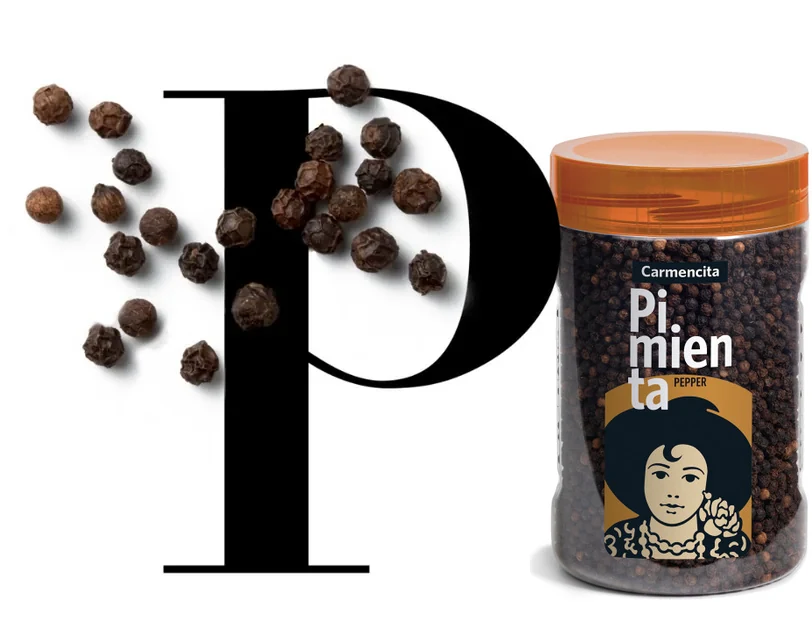
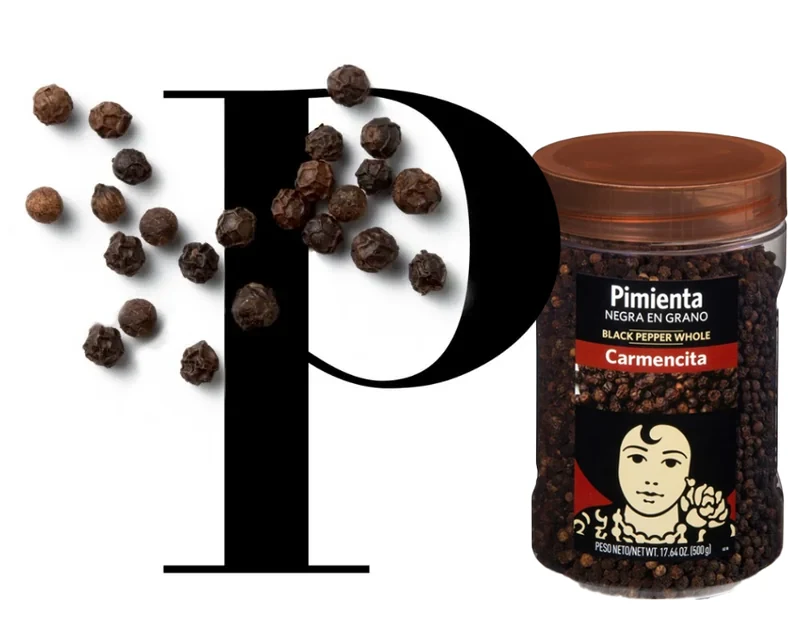
Carmencita: botes PET de pimienta blanca molida, comino molido y en grano, clavo y pimienta negra en grano junto a la especia
Claude-Session: https://claude.ai/code/session_01TfVuY2sTVvMwp4RqzYabW2

diff --git a/despensa-products.js b/despensa-products.js
@@ -72,14 +72,14 @@ window.ProductWorld.init({
         {name:'Pimienta negra molida · 510 g', description:'Pimienta negra molida para condimentar carnes, pescados, verduras y salsas.', image:D+'carmencita-pimienta-negra.webp', width:640, height:640, alt:'Pimienta negra, imagen ilustrativa de Carmencita'},
         {name:'Perejil · 110 g', description:'Perejil seco para añadir sabor y aroma a guisos, sopas, pescados y salsas.', image:D+'carmencita-perejil-pet.webp', width:800, height:640, alt:'Perejil, imagen ilustrativa de Carmencita, con el bote PET de Carmencita'},
         {name:'Pimentón dulce · 490 g', description:'Pimentón dulce para dar color y sabor a arroces, guisos, carnes y verduras.', image:D+'carmencita-pimenton-pet.webp', width:800, height:640, alt:'Pimentón, imagen ilustrativa de Carmencita, con el bote PET de Carmencita'},
-        {name:'Pimienta blanca molida · 510 g', description:'Pimienta blanca molida, adecuada para sazonar salsas, cremas, pescados y otros platos.', image:D+'carmencita-pimienta-blanca.webp', width:640, height:640, alt:'Pimienta blanca, imagen ilustrativa de Carmencita'},
+        {name:'Pimienta blanca molida · 510 g', description:'Pimienta blanca molida, adecuada para sazonar salsas, cremas, pescados y otros platos.', image:D+'carmencita-pimienta-blanca-pet.webp', width:800, height:640, alt:'Pimienta blanca, imagen ilustrativa de Carmencita, con el bote PET de Carmencita'},
         {name:'Colorante alimentario · 625 g', description:'Colorante alimentario para aportar un tono dorado a arroces y otros platos.', image:D+'carmencita-colorante-625g.webp', width:165, height:280, alt:'Colorante alimentario 625 g'},
         {name:'Laurel en hojas · 40 g', description:'Hojas de laurel para aromatizar guisos, caldos, legumbres y estofados.', image:D+'carmencita-laurel-pet.webp', width:800, height:640, alt:'Laurel, imagen ilustrativa de Carmencita, con el bote PET de Carmencita'},
-        {name:'Comino en grano · 390 g', description:'Comino entero para condimentar guisos, salsas, escabeches y recetas tradicionales.', image:D+'carmencita-comino.webp', width:640, height:640, alt:'Comino, imagen ilustrativa de Carmencita'},
-        {name:'Comino molido · 440 g', description:'Comino molido para incorporar fácilmente a guisos, salsas y otros platos.', image:D+'carmencita-comino.webp', width:640, height:640, alt:'Comino, imagen ilustrativa de Carmencita'},
+        {name:'Comino en grano · 390 g', description:'Comino entero para condimentar guisos, salsas, escabeches y recetas tradicionales.', image:D+'carmencita-comino-grano-pet.webp', width:800, height:640, alt:'Comino, imagen ilustrativa de Carmencita, con el bote PET de Carmencita'},
+        {name:'Comino molido · 440 g', description:'Comino molido para incorporar fácilmente a guisos, salsas y otros platos.', image:D+'carmencita-comino-molido-pet.webp', width:800, height:640, alt:'Comino, imagen ilustrativa de Carmencita, con el bote PET de Carmencita'},
         {name:'Pimienta negra en grano · 500 g', description:'Granos de pimienta negra para moler o añadir a caldos, guisos y marinados.', image:D+'carmencita-pimienta-negra-pet.webp', width:800, height:640, alt:'Pimienta negra, imagen ilustrativa de Carmencita, con el bote PET de Carmencita'},
         {name:'Bicarbonato · 1 kg', description:'Bicarbonato sódico para usos culinarios, como repostería y preparación de masas.', image:'assets/despensa/extra/carmencita_bicarbonato-1kg.webp', width:381, height:381, alt:'Carmencita Bicarbonato 1 kg'},
-        {name:'Clavo en grano · 550 g', description:'Clavos enteros para aromatizar platos dulces, guisos, caldos y marinados.', image:D+'carmencita-clavo.webp', width:640, height:640, alt:'Clavo, imagen ilustrativa de Carmencita'},
+        {name:'Clavo en grano · 550 g', description:'Clavos enteros para aromatizar platos dulces, guisos, caldos y marinados.', image:D+'carmencita-clavo-pet.webp', width:800, height:640, alt:'Clavo, imagen ilustrativa de Carmencita, con el bote PET de Carmencita'},
         {name:'Canela en rama · 170 g', description:'Canela en rama para aromatizar postres, bebidas y preparaciones de cocina.', image:D+'carmencita-canela-rama-pet.webp', width:800, height:640, alt:'Canela, imagen ilustrativa de Carmencita, con el bote PET de Carmencita'},
         {name:'Canela molida · 410 g', description:'Canela molida para repostería, postres, bebidas y otras recetas.', image:D+'carmencita-canela-molida-pet.webp', width:800, height:640, alt:'Canela, imagen ilustrativa de Carmencita, con el bote PET de Carmencita'}
       ]

diff --git a/despensa.html b/despensa.html
@@ -71,7 +71,7 @@
   <script src="precios.js?v=e91f9a24" defer></script>
   <script src="helios-products.js?v=5573db93" defer></script>
   <script src="villacampo-products.js?v=40a31a8d" defer></script>
-  <script src="despensa-products.js?v=184fe202" defer></script>
+  <script src="despensa-products.js?v=abc88ce0" defer></script>
 <script src="site-header.js?v=1a094ded" defer></script>
 <!-- call-float -->
 <aside class="call-bar" aria-label="Pedidos y llamada rápida"><a class="order-float" href="https://distribucionesvm-pedidos.tailc4a490.ts.net/cliente" target="_blank" rel="noopener"><svg viewBox="0 0 24 24" width="20" height="20" aria-hidden="true" focusable="false"><path fill="none" stroke="currentColor" stroke-width="2" stroke-linecap="round" stroke-linejoin="round" d="M6 7h12l-1 13H7L6 7zm3 0a3 3 0 0 1 6 0"/></svg><span>Hacer pedido</span></a><a class="call-float" href="tel:+34635098044" aria-label="Llamar al 635 09 80 44"><svg viewBox="0 0 24 24" width="22" height="22" aria-hidden="true" focusable="false"><path fill="currentColor" d="M6.6 10.8a15.1 15.1 0 0 0 6.6 6.6l2.2-2.2a1 1 0 0 1 1-.25c1.1.37 2.3.57 3.6.57a1 1 0 0 1 1 1V20a1 1 0 0 1-1 1A17 17 0 0 1 3 4a1 1 0 0 1 1-1h3.5a1 1 0 0 1 1 1c0 1.25.2 2.45.57 3.6a1 1 0 0 1-.25 1z"/></svg><span>Llamar</span></a></aside>
